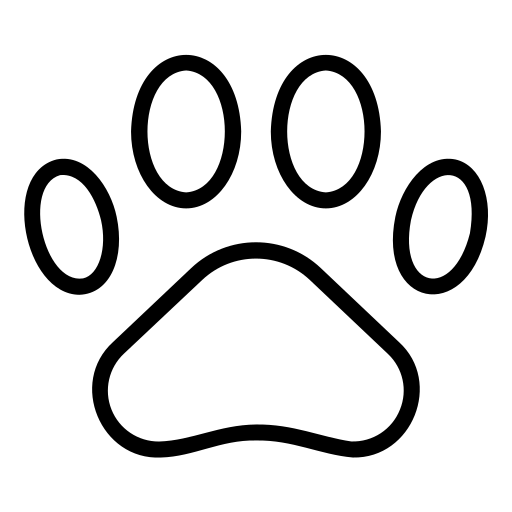
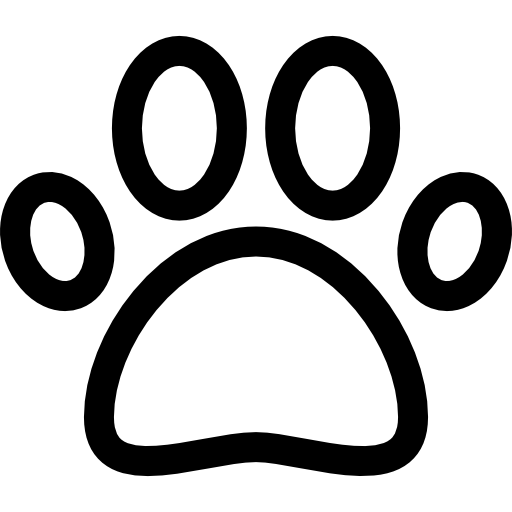
feat: seção como funciona estilizada e feita

Changed region(s): [[0.0, 0.0625, 1.0, 0.9375]]

diff --git a/clinicat_frontend/src/assets/styles/index.css b/clinicat_frontend/src/assets/styles/index.css
@@ -4,7 +4,7 @@ html {
 }
 
 .logo {
-  font-size: 2.2rem;
+  font-size: 2.4rem;
   cursor: default;
   user-select: none;
   font-weight: bold;
@@ -16,7 +16,7 @@ html {
   align-items: center;
   justify-content: space-between;
   width: 100%;
-  padding: 0.5rem 1rem;
+  padding: 1rem 2.5rem;
 }
 
 .navbar {
@@ -39,6 +39,10 @@ html {
 
 .navbar-ul-li {
   list-style: none;
+  display: flex;
+  align-items: center;
+  justify-content: center;
+  padding: 0.7rem 1.5rem;
 }
 
 .navbar-ul-li-a {
@@ -53,7 +57,6 @@ html {
 .header-actions {
   display: flex;
   align-items: center;
-
   flex-direction: row;
   gap: 2rem;
 }
@@ -138,4 +141,58 @@ html {
 
 .call-to-action-image {
   width: 25rem;
+}
+
+.how-to {
+  display: flex;
+  flex-direction: column;
+  align-items: center;
+  padding: 0 6rem;
+  height: 80vh;
+  width: 100%;
+  margin-top: 2rem;
+}
+
+.how-to-title {
+  margin-top: 1.2rem;
+  font-size: 1.8rem;
+}
+
+.how-to-steps {
+  display: flex;
+  flex-direction: row;
+  flex-wrap: wrap;
+  align-self: center;
+  justify-content: space-between;
+  width: 100%;
+  gap: 2rem;
+  margin-top: auto;
+}
+
+.how-to-steps-card {
+  display: flex;
+  flex-direction: column;
+  align-items: center;
+  gap: 2rem;
+  width: 15rem;
+}
+
+.how-to-steps-card-image {
+  width: 6.5rem;
+  height: 6.5rem;
+  justify-self: center;
+  filter: brightness(0) saturate(100%) invert(36%) sepia(91%) saturate(2032%)
+    hue-rotate(226deg) brightness(98%) contrast(94%);
+}
+
+.how-to-steps-card-description {
+  font-size: 1.1rem;
+  width: 100%;
+  text-align: center;
+  justify-self: baseline;
+}
+
+.how-to-subtitle {
+  margin-top: auto;
+  margin-bottom: 2rem;
 }

diff --git a/clinicat_frontend/src/index.html b/clinicat_frontend/src/index.html
@@ -24,9 +24,6 @@
           <li class="navbar-ul-li">
             <a href="#services" class="navbar-ul-li-a">Serviços</a>
           </li>
-          <!-- <li class="navbar-ul-li">
-            <a href="">Quem somos</a>
-          </li> -->
         </ul>
         <div class="header-actions">
           <a href="./pages/login.html" class="header-actions-link login">Entrar</a>
@@ -53,7 +50,7 @@
           />
         </div>
       </section>
-      <section class="how-to" class="how-to">
+      <section class="how-to" id="how-to">
         <h2 class="how-to-title">Como funciona?</h2>
         <div class="how-to-steps">
           <div class="how-to-steps-card">
@@ -93,10 +90,10 @@
             <h3 class="how-to-steps-card-description">Faça o pagamento</h3>
           </div>
         </div>
-        <h2>Depois desses passos só comparecer a consulta</h2>
+        <h3 class="how-to-subtitle">Depois desses passos só comparecer a consulta</h2>
       </section>
       <section class="services" id="services">
-        <h2 class="services-title">Serviços qxue oferecemos:</h2>
+        <h2 class="services-title">Serviços que oferecemos:</h2>
         <ul class="services-list">
           <li class="services-list-item">Ambulatório de Dor</li>
           <li class="services-list-item">Cardiologia</li>
